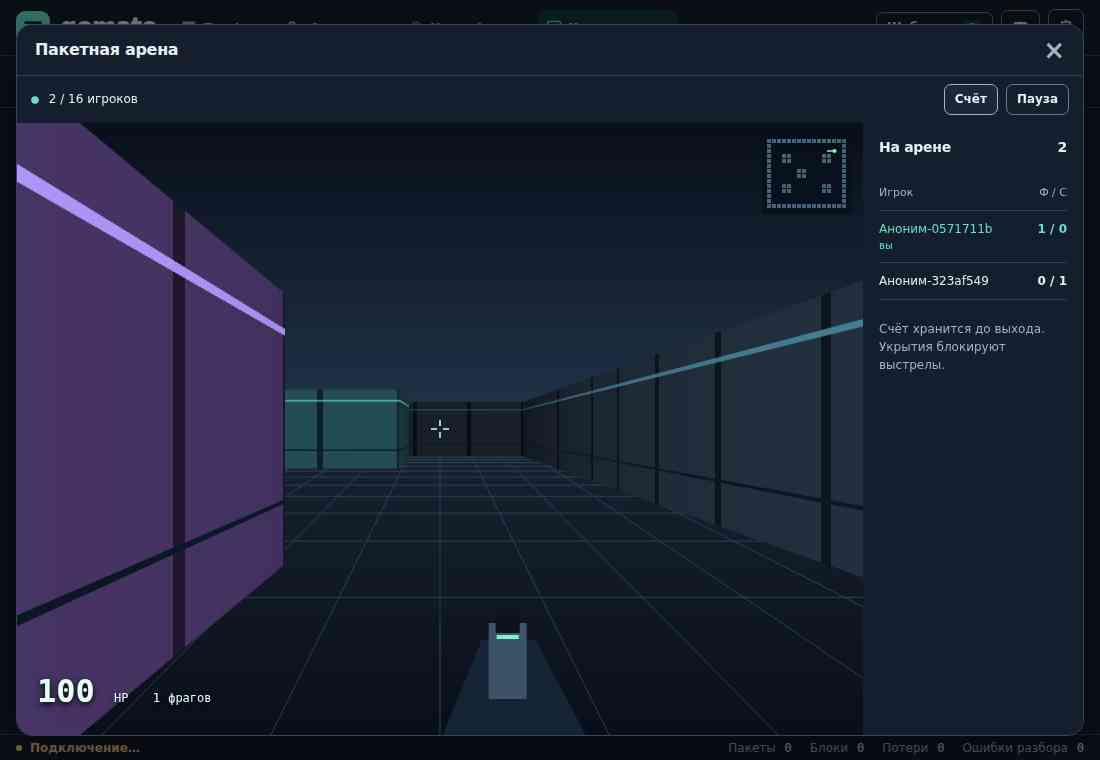
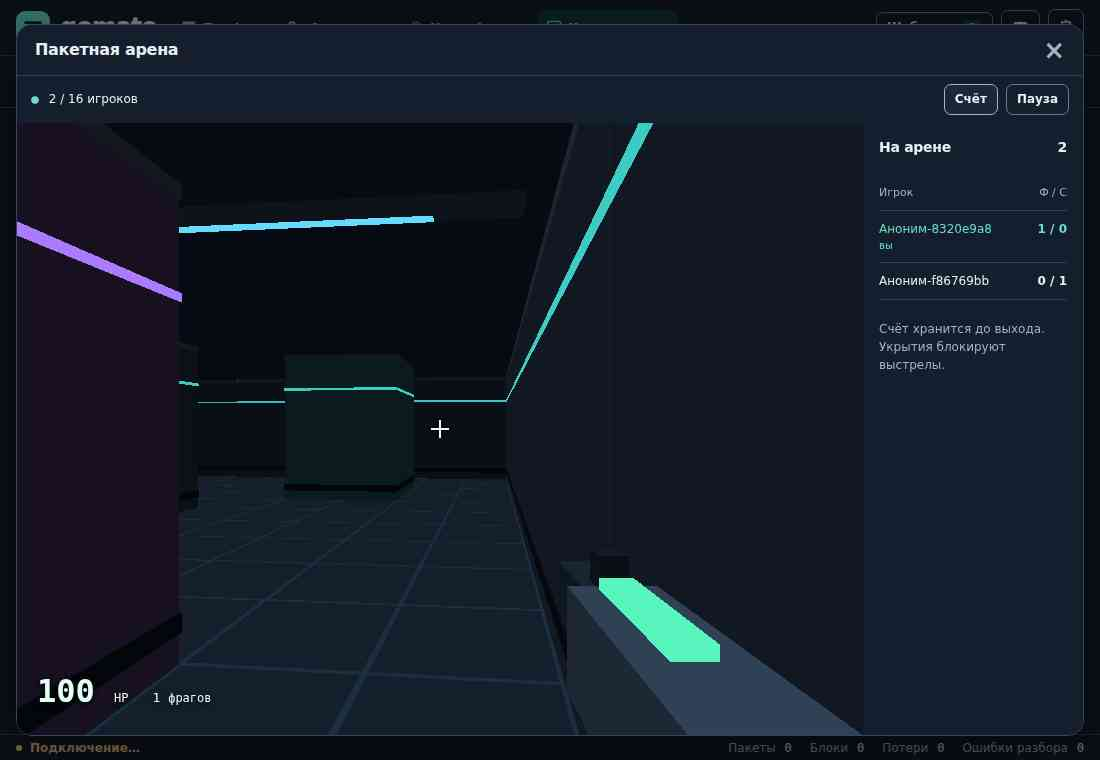
feat(arena): render WebGL 3D geometry and support vertical aiming

diff --git a/web/src/components/ArenaGame.vue b/web/src/components/ArenaGame.vue
@@ -3,11 +3,13 @@
   <div class="arena-toolbar"><span><i class="fas fa-circle" :class="connected?'arena-online':''" aria-hidden="true"/> {{ connected?players.length+' / 16 игроков':status }}</span><div><button type="button" class="btn btn-sm btn-outline-secondary" @click="showScores=!showScores" :aria-pressed="String(showScores)">Счёт</button><button v-if="connected" type="button" class="btn btn-sm btn-outline-secondary" @click="pause">Пауза</button></div></div>
   <div class="arena-layout" :class="{'arena-with-scores':showScores}">
    <div class="arena-stage">
-    <canvas ref="canvas" tabindex="0" aria-label="3D-арена. WASD — движение, стрелки — поворот, пробел — выстрел." @click="activate" @contextmenu.prevent @mousemove="mouseMove" @mousedown="mouseDown"/>
+    <canvas ref="canvas" tabindex="0" aria-label="3D-арена. WASD — движение, стрелки — поворот, пробел — выстрел." @click="activate" @contextmenu.prevent @mousemove="mouseMove" @mousedown="mouseDown" @pointerdown="lookTouchStart" @pointermove="lookTouchMove" @pointerup="lookTouchEnd" @pointercancel="lookTouchEnd" @webglcontextlost.prevent="contextLost"/>
+    <div v-if="connected&&active" class="arena-crosshair" :class="{'arena-crosshair-hit':hitUntil>clock}" aria-hidden="true"/>
+    <div v-if="hurtUntil>clock" class="arena-damage" aria-hidden="true"/>
     <div v-if="!connected||!active" class="arena-overlay">
-     <span class="arena-kicker">GOMATE / DEATHMATCH</span><h2>{{ connected?'Передышка':error?'Связь прервана':'Между раундами' }}</h2>
+     <span class="arena-kicker">GOMATE / 3D DEATHMATCH</span><h2>{{ connected?'Передышка':error?'Связь прервана':'Между раундами' }}</h2>
      <p v-if="error" role="alert">{{ error }}</p><p v-else>Одна арена для всей команды. Три попадания, три секунды на возрождение.</p>
-     <button type="button" class="btn btn-primary" :disabled="connecting" @click="connected?activate():connect()">{{ connecting?'Подключение…':connected?'Продолжить':'Войти на арену' }}</button>
+     <button type="button" class="btn btn-primary" :disabled="connecting||renderUnavailable" @click="connected?activate():connect()">{{ connecting?'Подключение…':connected?'Продолжить':'Войти на арену' }}</button>
      <div class="arena-instructions"><span><kbd>W A S D</kbd> движение</span><span>Мышь или <kbd>← →</kbd> прицел</span><span><kbd>ЛКМ</kbd> / <kbd>Space</kbd> огонь</span><span><kbd>Esc</kbd> пауза</span></div>
      <small>Если захват мыши недоступен — зажмите ПКМ для поворота. Пауза не защищает от попаданий.</small>
     </div>
@@ -27,16 +29,16 @@ import {ArenaRenderer} from '../game/arenaRenderer.mjs';
 const codes=new Set(['KeyW','KeyA','KeyS','KeyD','ArrowUp','ArrowDown','ArrowLeft','ArrowRight','Space']);
 export default {
  name:'ArenaGame',
- data:()=>({connected:false,connecting:false,active:false,status:'Командный мини-шутер',error:'',players:[],id:0,showScores:false,clock:0,hitUntil:0,touchControls:[{code:'KeyW',text:'↑',label:'Вперёд'},{code:'KeyS',text:'↓',label:'Назад'},{code:'KeyA',text:'A',label:'Шаг влево'},{code:'KeyD',text:'D',label:'Шаг вправо'},{code:'ArrowLeft',text:'↶',label:'Поворот влево'},{code:'ArrowRight',text:'↷',label:'Поворот вправо'}]}),
+ data:()=>({connected:false,connecting:false,active:false,status:'Командный мини-шутер',error:'',players:[],id:0,showScores:false,clock:0,hitUntil:0,hurtUntil:0,renderUnavailable:false,touchControls:[{code:'KeyW',text:'↑',label:'Вперёд'},{code:'KeyS',text:'↓',label:'Назад'},{code:'KeyA',text:'A',label:'Шаг влево'},{code:'KeyD',text:'D',label:'Шаг вправо'},{code:'ArrowLeft',text:'↶',label:'Поворот влево'},{code:'ArrowRight',text:'↷',label:'Поворот вправо'}]}),
  computed:{me(){return this.players.find(p=>p.id===this.id)},ranked(){return [...this.players].sort((a,b)=>b.kills-a.kills||a.deaths-b.deaths)},respawnSeconds(){return Math.max(0,Math.ceil(((this.me?.respawnAt||0)-this.serverTime-(this.clock-this.receivedAt))/1000))}},
- created(){this.keys=new Set();this.angle=0;this.map=null;this.socket=null;this.frame=0;this.lastFrame=0;this.lastSent=0;this.serverTime=0;this.receivedAt=0;this.closed=false;this.renderer=null},
- beforeDestroy(){this.closed=true;this.disconnect();cancelAnimationFrame(this.frame);this.resizeObserver?.disconnect();window.removeEventListener('keydown',this.keyDown);window.removeEventListener('keyup',this.keyUp);window.removeEventListener('mouseup',this.mouseUp);window.removeEventListener('blur',this.pause);document.removeEventListener('visibilitychange',this.visibility);document.removeEventListener('pointerlockchange',this.pointerLock);document.removeEventListener('mousemove',this.lockedMove)},
+ created(){this.keys=new Set();this.angle=0;this.pitch=0;this.touchLook=null;this.map=null;this.socket=null;this.frame=0;this.lastFrame=0;this.lastDraw=0;this.lastSent=0;this.serverTime=0;this.receivedAt=0;this.closed=false;this.renderer=null},
+ beforeDestroy(){this.closed=true;this.disconnect();cancelAnimationFrame(this.frame);this.renderer?.dispose();this.resizeObserver?.disconnect();window.removeEventListener('keydown',this.keyDown);window.removeEventListener('keyup',this.keyUp);window.removeEventListener('mouseup',this.mouseUp);window.removeEventListener('blur',this.pause);document.removeEventListener('visibilitychange',this.visibility);document.removeEventListener('pointerlockchange',this.pointerLock);document.removeEventListener('mousemove',this.lockedMove)},
  methods:{
-  setup(){if(this.renderer)return;const canvas=this.$refs.canvas;this.renderer=new ArenaRenderer(canvas);this.resizeObserver=new ResizeObserver(()=>{const r=canvas.getBoundingClientRect(),scale=Math.min(1,960/r.width);canvas.width=Math.max(1,Math.round(r.width*scale));canvas.height=Math.max(1,Math.round(r.height*scale))});this.resizeObserver.observe(canvas);window.addEventListener('keydown',this.keyDown);window.addEventListener('keyup',this.keyUp);window.addEventListener('mouseup',this.mouseUp);window.addEventListener('blur',this.pause);document.addEventListener('visibilitychange',this.visibility);document.addEventListener('pointerlockchange',this.pointerLock);document.addEventListener('mousemove',this.lockedMove);this.frame=requestAnimationFrame(this.render)},
-  connect(){if(this.connecting||this.connected)return;if(!this.renderer)this.setup();this.error='';this.connecting=true;this.players=[];this.id=0;this.map=null;const ws=new WebSocket(`${location.protocol==='https:'?'wss:':'ws:'}//${location.host}/api/v2/chat/arena`);this.socket=ws;this.connectTimer=setTimeout(()=>{if(!this.connected){this.error='Сервер не ответил. Попробуйте ещё раз.';ws.close()}},8000);
+  setup(){if(this.renderer)return;const canvas=this.$refs.canvas;try{this.renderer=new ArenaRenderer(canvas)}catch(e){this.error=e.message;this.renderUnavailable=true;return false}this.resizeObserver=new ResizeObserver(()=>{const r=canvas.getBoundingClientRect(),scale=Math.min(1,960/r.width);canvas.width=Math.max(1,Math.round(r.width*scale));canvas.height=Math.max(1,Math.round(r.height*scale))});this.resizeObserver.observe(canvas);window.addEventListener('keydown',this.keyDown);window.addEventListener('keyup',this.keyUp);window.addEventListener('mouseup',this.mouseUp);window.addEventListener('blur',this.pause);document.addEventListener('visibilitychange',this.visibility);document.addEventListener('pointerlockchange',this.pointerLock);document.addEventListener('mousemove',this.lockedMove);this.frame=requestAnimationFrame(this.render)},
+  connect(){if(this.connecting||this.connected||this.renderUnavailable)return;if(!this.renderer&&this.setup()===false)return;this.error='';this.connecting=true;this.players=[];this.id=0;this.map=null;const ws=new WebSocket(`${location.protocol==='https:'?'wss:':'ws:'}//${location.host}/api/v2/chat/arena`);this.socket=ws;this.connectTimer=setTimeout(()=>{if(!this.connected){this.error='Сервер не ответил. Попробуйте ещё раз.';ws.close()}},8000);
    ws.onmessage=e=>{if(this.closed||this.socket!==ws)return;let data;try{data=JSON.parse(e.data)}catch{return}
-    if(data.type==='welcome'){clearTimeout(this.connectTimer);this.id=data.id;this.map=data.map;this.angle=data.angle;this.connected=true;this.connecting=false;this.status='На арене';this.active=true;this.renderer.camera=null;this.$nextTick(()=>this.$refs.canvas?.focus())}
-    if(data.type==='state'){const old=this.me,me=data.players.find(p=>p.id===this.id);if(old&&me&&me.hits>old.hits)this.hitUntil=performance.now()+450;if(old&&me&&old.hp===0&&me.hp>0)this.angle=me.angle;this.players=data.players;this.serverTime=data.time;this.receivedAt=performance.now()}
+    if(data.type==='welcome'){clearTimeout(this.connectTimer);this.id=data.id;this.map=data.map;this.angle=data.angle;this.pitch=0;this.connected=true;this.connecting=false;this.status='На арене';this.active=true;this.renderer.camera=null;this.$nextTick(()=>this.$refs.canvas?.focus())}
+    if(data.type==='state'){const old=this.me,me=data.players.find(p=>p.id===this.id);if(old&&me&&me.hits>old.hits)this.hitUntil=performance.now()+450;if(old&&me&&me.hp<old.hp)this.hurtUntil=performance.now()+180;if(old&&me&&old.hp===0&&me.hp>0){this.angle=me.angle;this.pitch=0}this.players=data.players;this.serverTime=data.time;this.receivedAt=performance.now()}
    };ws.onclose=()=>{if(this.closed||this.socket!==ws)return;clearTimeout(this.connectTimer);this.connected=false;this.connecting=false;this.pause();this.error=this.error||'Соединение закрыто. Арена может быть заполнена или уже открыта в другой вкладке. Можно войти снова.'};ws.onerror=()=>{this.error='Не удалось подключиться к арене. Проверьте соединение или закройте игру в другой вкладке.'}},
   disconnect(){clearTimeout(this.connectTimer);this.pause();this.socket?.close();this.socket=null;this.connected=false;this.connecting=false},
   activate(){if(!this.connected)return;this.active=true;this.$refs.canvas.focus();try{const result=this.$refs.canvas.requestPointerLock?.();result?.catch(()=>{})}catch{}},
@@ -45,12 +47,16 @@ export default {
   pointerLock(){if(document.pointerLockElement!==this.$refs.canvas)this.pause()},
   keyDown(e){if(e.code==='Escape'){this.pause();return}if(!this.active||!codes.has(e.code)||e.ctrlKey||e.metaKey||e.altKey)return;e.preventDefault();this.keys.add(e.code)},
   keyUp(e){this.keys.delete(e.code)},
-  lockedMove(e){if(this.active&&document.pointerLockElement===this.$refs.canvas)this.angle+=e.movementX*.003},
-  mouseMove(e){if(this.active&&document.pointerLockElement!==this.$refs.canvas&&(e.buttons&2))this.angle+=e.movementX*.004},
+  look(dx,dy,speed){this.angle+=dx*speed;this.pitch=Math.max(-1.3,Math.min(1.3,this.pitch-dy*speed))},
+  lockedMove(e){if(this.active&&document.pointerLockElement===this.$refs.canvas)this.look(e.movementX,e.movementY,.003)},
+  mouseMove(e){if(this.active&&document.pointerLockElement!==this.$refs.canvas&&(e.buttons&2))this.look(e.movementX,e.movementY,.004)},
+  contextLost(){this.disconnect();this.renderUnavailable=true;this.error='3D-контекст потерян. Закройте арену и откройте её снова.'},
+  lookTouchStart(e){if(e.pointerType!=='touch'||!this.active)return;this.touchLook={id:e.pointerId,x:e.clientX,y:e.clientY};e.target.setPointerCapture(e.pointerId)},
+  lookTouchMove(e){const t=this.touchLook;if(!t||t.id!==e.pointerId)return;this.look(e.clientX-t.x,e.clientY-t.y,.005);t.x=e.clientX;t.y=e.clientY},lookTouchEnd(){this.touchLook=null},
   mouseDown(e){if(this.active&&e.button===0)this.fire=true},mouseUp(){this.fire=false},
   touchDown(e,code){e.target.setPointerCapture(e.pointerId);this.keys.add(code)},touchUp(code){this.keys.delete(code)},
-  sendInput(){if(this.socket?.readyState!==WebSocket.OPEN||!this.connected||this.socket.bufferedAmount>4096)return;const k=this.keys,on=this.active;this.angle=Math.atan2(Math.sin(this.angle),Math.cos(this.angle));this.socket.send(JSON.stringify({forward:on?(Number(k.has('KeyW')||k.has('ArrowUp'))-Number(k.has('KeyS')||k.has('ArrowDown'))):0,strafe:on?(Number(k.has('KeyD'))-Number(k.has('KeyA'))):0,angle:this.angle,fire:!!(on&&(this.fire||k.has('Space')))}))},
-  render(now){if(this.closed)return;const dt=Math.min(.05,(now-this.lastFrame)/1000||.016);this.lastFrame=now;if(now-this.clock>=100)this.clock=now;if(this.active)this.angle+=(Number(this.keys.has('ArrowRight'))-Number(this.keys.has('ArrowLeft')))*dt*2.2;if(now-this.lastSent>=50){this.sendInput();this.lastSent=now}if(this.connected&&!document.hidden)this.renderer?.draw(this.map,this.players,this.id,this.angle,dt,now);this.frame=requestAnimationFrame(this.render)}
+  sendInput(){if(this.socket?.readyState!==WebSocket.OPEN||!this.connected||this.socket.bufferedAmount>4096)return;const k=this.keys,on=this.active;this.angle=Math.atan2(Math.sin(this.angle),Math.cos(this.angle));this.socket.send(JSON.stringify({forward:on?(Number(k.has('KeyW')||k.has('ArrowUp'))-Number(k.has('KeyS')||k.has('ArrowDown'))):0,strafe:on?(Number(k.has('KeyD'))-Number(k.has('KeyA'))):0,angle:this.angle,pitch:this.pitch,fire:!!(on&&(this.fire||k.has('Space')))}))},
+  render(now){if(this.closed)return;const dt=Math.min(.05,(now-this.lastFrame)/1000||.016);this.lastFrame=now;if(now-this.clock>=100)this.clock=now;if(this.active)this.angle+=(Number(this.keys.has('ArrowRight'))-Number(this.keys.has('ArrowLeft')))*dt*2.2;if(now-this.lastSent>=50){this.sendInput();this.lastSent=now}if(this.connected&&!document.hidden&&now-this.lastDraw>=16){this.renderer?.draw(this.map,this.players,this.id,this.angle,this.pitch,Math.min(.05,(now-this.lastDraw)/1000||.016),now);this.lastDraw=now}this.frame=requestAnimationFrame(this.render)}
  }
 }
 </script>
@@ -61,6 +67,7 @@ export default {
 .arena-toolbar{display:flex;justify-content:space-between;align-items:center;gap:10px;padding:8px 14px;flex:none;font-size:12px}.arena-toolbar>div{display:flex;gap:8px}.arena-toolbar .fa-circle{font-size:8px;margin-right:6px;color:var(--gm-muted)}.arena-toolbar .arena-online{color:var(--gm-accent)}
 .arena-layout{display:flex;flex:1;min-height:0}.arena-stage{position:relative;flex:1;min-width:0;min-height:0;background:radial-gradient(ellipse at 70% 60%,#183947,#0b1220 70%);overflow:hidden}.arena-stage canvas{display:block;width:100%;height:100%;outline-offset:-3px;touch-action:none}
 .arena-overlay{position:absolute;inset:0;display:flex;align-items:center;justify-content:center;flex-direction:column;gap:18px;padding:24px;background:#0a1223dc;color:#e9f5ff;text-align:center;overflow:auto}.arena-kicker{font:11px var(--gm-mono);letter-spacing:3px;color:#7bf1d0}.arena-overlay h2{font-size:clamp(25px,4vw,44px);letter-spacing:-1px;margin:0}.arena-overlay p{max-width:430px;font-size:14px;color:#b9c9d9;margin:0}.arena-overlay>.btn{padding:11px 28px;font-size:14px}.arena-instructions{display:flex;justify-content:center;flex-wrap:wrap;gap:12px;font-size:12px;color:#cad8e5}.arena-instructions kbd{background:#26364d;padding:3px 5px}.arena-overlay small{max-width:460px;font-size:11px;color:#9caec3}
+.arena-crosshair{position:absolute;left:50%;top:50%;width:18px;height:18px;transform:translate(-50%,-50%);pointer-events:none;color:#e7fff5;filter:drop-shadow(0 1px 2px #000)}.arena-crosshair:before,.arena-crosshair:after{content:"";position:absolute;background:currentColor}.arena-crosshair:before{left:8px;top:0;width:2px;height:18px}.arena-crosshair:after{left:0;top:8px;width:18px;height:2px}.arena-crosshair-hit{color:#ffcf70;transform:translate(-50%,-50%) rotate(45deg)}.arena-damage{position:absolute;inset:0;box-shadow:inset 0 0 65px #ff375e88;pointer-events:none}@media(prefers-reduced-motion:reduce){.arena-damage{display:none}}
 .arena-hud{position:absolute;bottom:20px;left:20px;right:20px;display:flex;align-items:baseline;gap:24px;pointer-events:none;color:#e5fff7;text-shadow:0 2px 6px #000;font-family:var(--gm-mono)}.arena-hud strong{font-size:32px}.arena-hud small{font-size:12px}.arena-hud>span{font-size:13px}.arena-hud .arena-low-hp{color:#ff8da3}.arena-hit{margin-left:auto;color:#7bf1d0}.arena-respawn{position:absolute;inset:40% 0 auto;text-align:center;color:#fff;background:#09121dcc;padding:16px;font-size:22px;pointer-events:none}
 .arena-scores{width:220px;flex:none;padding:16px;background:var(--gm-panel);overflow:auto;font-size:12px}.arena-scores h3{font-size:14px;display:flex;justify-content:space-between;margin:0 0 20px}.arena-score-label,.arena-score-row{display:flex;justify-content:space-between;gap:8px;padding:9px 0;border-bottom:1px solid var(--gm-border)}.arena-score-label{color:var(--gm-muted);font-size:11px}.arena-score-row>span{min-width:0;overflow-wrap:anywhere}.arena-score-row strong{white-space:nowrap}.arena-score-row small{display:block;font-size:10px}.arena-score-self{color:var(--gm-accent)}.arena-score-note{display:block;margin-top:20px;color:var(--gm-muted)}
 .arena-touch{display:none;position:absolute;bottom:12px;left:12px;right:12px;justify-content:space-between;align-items:flex-end;pointer-events:none}.arena-touch-move{display:grid;grid-template-columns:repeat(3,44px);gap:6px}.arena-touch button{pointer-events:auto;touch-action:none;border:1px solid #7693ad;border-radius:9px;background:#14283bdb;color:#f1fbff;min-width:44px;min-height:44px}.arena-touch .arena-touch-fire{width:60px;height:60px;border-radius:50%;font-size:24px}

diff --git a/internal/arena/game.go b/internal/arena/game.go
@@ -34,11 +34,13 @@ type Input struct {
 	Forward float64 `json:"forward"`
 	Strafe  float64 `json:"strafe"`
 	Angle   float64 `json:"angle"`
+	Pitch   float64 `json:"pitch"`
 	Fire    bool    `json:"fire"`
 }
 
 func (i Input) valid() bool {
 	return !math.IsNaN(i.Angle) && !math.IsInf(i.Angle, 0) && math.Abs(i.Angle) < 1e6 &&
+		!math.IsNaN(i.Pitch) && math.Abs(i.Pitch) <= 1.3 &&
 		!math.IsNaN(i.Forward) && math.Abs(i.Forward) <= 1 && !math.IsNaN(i.Strafe) && math.Abs(i.Strafe) <= 1
 }
 
@@ -48,6 +50,7 @@ type Player struct {
 	X           float64 `json:"x"`
 	Y           float64 `json:"y"`
 	Angle       float64 `json:"angle"`
+	Pitch       float64 `json:"pitch"`
 	HP          int     `json:"hp"`
 	Kills       int     `json:"kills"`
 	Deaths      int     `json:"deaths"`
@@ -100,6 +103,7 @@ func (h *Hub) spawn(p *Player, now time.Time) {
 	}
 	s := spawns[best]
 	p.X, p.Y, p.Angle = s[0], s[1], s[2]
+	p.Pitch = 0
 	p.HP = 100
 	p.RespawnAt = 0
 	p.ShieldUntil = now.Add(time.Second).UnixMilli()
@@ -123,6 +127,7 @@ func (h *Hub) advance(now time.Time) {
 			continue
 		}
 		p.Angle = math.Remainder(p.input.Angle, 2*math.Pi)
+		p.Pitch = p.input.Pitch
 		f, s := p.input.Forward, p.input.Strafe
 		if length := math.Hypot(f, s); length > 1 {
 			f /= length
@@ -157,8 +162,16 @@ func (h *Hub) advance(now time.Time) {
 			along := dx*math.Cos(p.Angle) + dy*math.Sin(p.Angle)
 			across := math.Abs(-dx*math.Sin(p.Angle) + dy*math.Cos(p.Angle))
 			if along > 0 && across < .32 {
-				hit := along - math.Sqrt(.32*.32-across*across)
-				if hit >= 0 && hit < closest {
+				root := math.Sqrt(.32*.32 - across*across)
+				hit, end := math.Max(0, along-root), along+root
+				// Intersect the horizontal circle with the player's vertical cylinder.
+				// Eye height is 1.25m, target height 1.6m; looking over a head must miss.
+				if slope := math.Tan(p.Pitch); math.Abs(slope) > 1e-8 {
+					lo, hi := -1.25/slope, (1.6-1.25)/slope
+					hit = math.Max(hit, math.Min(lo, hi))
+					end = math.Min(end, math.Max(lo, hi))
+				}
+				if hit <= end && hit < closest {
 					closest = hit
 					victim = q
 				}

diff --git a/internal/arena/game_test.go b/internal/arena/game_test.go
@@ -105,6 +105,26 @@ func TestNearestPlayerAndDeadPlayer(t *testing.T) {
 		t.Fatal("dead player fired")
 	}
 }
+func TestVerticalAim(t *testing.T) {
+	now := time.Now()
+	for _, pitch := range []float64{.7, -1, 0} {
+		h, shooter, target := fixture(now)
+		shooter.input = Input{Fire: true, Pitch: pitch}
+		h.advance(now)
+		want := 100
+		if pitch == 0 {
+			want = 66
+		}
+		if target.HP != want {
+			t.Fatalf("pitch=%v hp=%d want=%d", pitch, target.HP, want)
+		}
+	}
+	for _, pitch := range []float64{1.31, -1.31, math.NaN(), math.Inf(1)} {
+		if (Input{Pitch: pitch}).valid() {
+			t.Fatalf("invalid pitch accepted: %v", pitch)
+		}
+	}
+}
 func TestWebSocketRoomBoundedAndStops(t *testing.T) {
 	var h Hub
 	s := httptest.NewServer(http.HandlerFunc(func(w http.ResponseWriter, r *http.Request) { h.Serve(w, r, r.URL.Query().Get("name")) }))

diff --git a/reports/ARENA.md b/reports/ARENA.md
@@ -1,26 +1,32 @@
 # Проверка мини-шутера
 
-Дата: 2026-11-14. Вход: **Чат → Арена → Войти на арену**.
+Дата: 2026-11-15. Вход: **Чат → Арена → Войти на арену**.
 
 ## Результат
 
-Добавлена общая ретро-3D арена до 16 игроков с именами из чата, укрытиями, серверными попаданиями, счётом и автоматическим возрождением. Игра загружается по кнопке, не обращается к БД или очередям захвата. Закрытие сохраняет черновик чата. Описание управления и ограничений: [ARENA.md](../docs/ARENA.md).
+Добавлена общая полноценная 3D-арена на WebGL до 16 игроков с именами из чата, укрытиями, серверными попаданиями, счётом и автоматическим возрождением. Игра загружается по кнопке, не обращается к БД или очередям захвата. Закрытие сохраняет черновик чата. Описание управления и ограничений: [ARENA.md](../docs/ARENA.md).
 
 ## Выполненные проверки
 
-- `.tools/go/bin/go test -race ./internal/arena ./internal/api` — PASS. Проверены движение, стены, ближайшая цель, частота выстрелов, защита и возрождение, остановка устаревшего ввода, 16 WebSocket-подключений, лимит комнаты, повторный вход, остановка пустой комнаты, Origin, неверный ввод, флуд, Basic Auth и идентичность имени чата.
+- `.tools/go/bin/go test -race ./internal/arena ./internal/api` — PASS. Проверены движение, стены, ближайшая цель, частота выстрелов, защита и возрождение, остановка устаревшего ввода, 16 WebSocket-подключений, лимит комнаты, повторный вход, остановка пустой комнаты, Origin, неверный ввод, флуд, Basic Auth и идентичность имени чата. Отдельно проверены промахи выше головы и в пол, а также допустимые границы вертикального прицела.
 - `npm --prefix web run build` — PASS. Арена выделена в отдельный динамический chunk. Существующее предупреждение о размере основного bundle остаётся.
-- `node tests/browser/arena.cjs` — PASS. Два Chromium-клиента подключены к настоящему Go WebSocket-серверу. Движение видно сопернику; три попадания дают фраг, игрок возрождается; счёт синхронизируется. Проверены пауза, выход, сохранение черновика, мобильное окно игры и размещение композера/кнопки в пяти размерах окна и двух темах. Подменены только API вне игры. Ошибок JavaScript нет: [JSON](arena-browser.json), [небольшой JPEG](arena-desktop.jpg).
-- `node tests/browser/arena-live.cjs` — PASS на `192.168.56.103:65000`: два браузера вошли с именами чата, сервер принял движение, после выхода захват работает и readiness отвечает успешно. Сообщения в чат тест не публиковал: [JSON](arena-live.json).
+- `node tests/browser/arena.cjs` — PASS. Проверены настоящий WebGL-контекст и включённая проверка глубины, репликация вертикального угла. Два Chromium-клиента подключены к настоящему Go WebSocket-серверу. Движение видно сопернику; три попадания дают фраг, игрок возрождается; счёт синхронизируется. Проверены пауза, выход, сохранение черновика, мобильное окно игры и размещение композера/кнопки в пяти размерах окна и двух темах. Подменены только API вне игры. Ошибок JavaScript нет: [JSON](arena-browser.json), [небольшой JPEG](arena-desktop.jpg).
+- `node tests/browser/arena-live.cjs` — PASS на `192.168.56.103:65000`: два браузера вошли с именами чата, проверены WebGL и глубина, сервер принял движение и вертикальный прицел, после выхода захват работает и readiness отвечает успешно. Сообщения в чат тест не публиковал: [JSON](arena-live.json).
 
 Дополнительно запускался общий `ui-operations-redesign.cjs`: остановился на устаревшем селекторе `.gm-page-title` страницы «Аномалии», где сейчас обычный `<h1>`. Это не успешная общая регрессия интерфейса. Проверки изменённого чата выполнены отдельно в `arena.cjs`; код аномалий в рамках арены не менялся.
 
 ## Производительность
 
-`BenchmarkFullRoomTick`, Intel Core i7-12700F, 16 симулируемых игроков с движением и огнём: **22 068 нс/op, 3506 B/op, 6 allocs/op**. Бенчмарк включает шаг симуляции и сериализацию снимка через шаг; не включает сетевую передачу, рендер браузера или нагрузку захвата трафика. Это не результат нагрузочного теста всего анализатора.
+`BenchmarkFullRoomTick`, Intel Core i7-12700F, 16 симулируемых игроков с движением и огнём: **21 356 нс/op, 3675 B/op, 6 allocs/op**. Бенчмарк включает шаг симуляции и сериализацию снимка через шаг; не включает сетевую передачу, рендер браузера или нагрузку захвата трафика. Это не результат нагрузочного теста всего анализатора.
 
 Сервер ограничен 20 шагами/с, 10 снимками/с и 16 игроками; у клиента очередь только для последнего снимка. В пустой комнате таймер останавливается. Полный длительный тест захвата одновременно с 16 активными браузерами в этой проверке не проводился.
 
 ## Развёртывание
 
[2 lines of base64/hex data omitted]
+
+Предыдущая проверенная сборка арены была заменена параллельным развёртыванием вложений. Поэтому дополнительно собран совместный образ; затем его 3D-рендер заменён на WebGL по уточнению пользователя. Изменения вложений сохранены в финальной сборке.
+
+Образ загружен на Kali и назначен `gomate-app:kali-test`; `docker compose up -d --no-deps --wait app` завершился успешно. Предыдущий образ сохранён как `gomate-app:before-arena3d-20261115`. Live-проверка арены выполнена повторно на финальном образе. В тесте движение ожидается до подтверждения сервером (до 5 секунд), а не фиксированные 200 мс: это функциональная проверка, не измерение сетевой задержки или FPS.
+
+Дополнительно `.tools/go/bin/go test ./internal/attachments ./internal/storage` — PASS; браузерная live-проверка вложений — PASS на финальном образе: файл скачан и побайтово совпал с содержимым API, проверены текст/HEX и шесть сочетаний темы/ширины. Ошибок JavaScript нет.

diff --git a/docs/ARENA.md b/docs/ARENA.md
@@ -2,22 +2,22 @@
 
 В чате справа в шапке нажмите **Арена**, затем **Войти на арену**. Все участники одного экземпляра gomate попадают на общую карту. Имена совпадают с анонимными именами чата; дополнительных аккаунтов нет. Одна вкладка с игрой на браузер, до 16 игроков одновременно.
 
-Это мини-шутер от первого лица с ретро-3D графикой на raycasting: карта с укрытиями, 100 HP, три попадания до фрага, автоматическое возрождение через 3 секунды. После возрождения действует защита на 1 секунду, которая снимается собственным выстрелом. Кнопка **Счёт** показывает фраги и смерти. Счёт хранится до выхода, вся арена — только в памяти процесса.
+Это мини-шутер от первого лица с полноценной 3D-сценой на WebGL: объёмные модели игроков и оружия, перспективная камера, освещение и проверка глубины. На карте есть укрытия; у игрока 100 HP, три попадания до фрага, автоматическое возрождение через 3 секунды. После возрождения действует защита на 1 секунду, которая снимается собственным выстрелом. Кнопка **Счёт** показывает фраги и смерти. Счёт хранится до выхода, вся арена — только в памяти процесса.
 
 - **WASD** или ↑/↓ — движение; **←/→** — поворот.
-- Мышь — обзор после клика по сцене. Если браузер не разрешает захват мыши, зажмите **ПКМ** для поворота.
+- Мышь — горизонтальный и вертикальный обзор после клика по сцене. Если браузер не разрешает захват мыши, зажмите **ПКМ** для поворота.
 - **ЛКМ** или **Space** — стрельба; можно удерживать.
 - **Esc** — отпустить мышь и открыть паузу. Пауза не защищает от попаданий.
-- На сенсорном экране доступны кнопки движения, поворота и огня.
+- На сенсорном экране доступны кнопки движения, поворота и огня; проводите пальцем по сцене для обзора.
 - Закрытие окна возвращает в чат, сохраняя черновик. Скрытие вкладки отключает игрока; для возврата нажмите **Войти на арену**.
 
 ## Изоляция от анализатора
 
-Арена не использует БД, очереди захвата, блокировки каталога или SSE/WebSocket-уведомления трафика. Код игры загружается отдельным frontend chunk только при открытии окна. Не нужны внешние ресурсы, CDN, WebGL или новые npm-зависимости.
+Арена не использует БД, очереди захвата, блокировки каталога или SSE/WebSocket-уведомления трафика. Код игры загружается отдельным frontend chunk только при открытии окна. Внешние ресурсы, CDN и новые npm-зависимости не нужны. Требуется поддержка WebGL в браузере; если она недоступна, окно покажет понятную ошибку.
 
-Серверная симуляция идёт 20 раз в секунду, состояния рассылаются 10 раз в секунду. Клиент отправляет ввод с частотой до 20 раз в секунду. Сервер задаёт скорость, столкновения, частоту выстрелов, урон, возрождение и счёт; координаты и результаты попаданий от клиента не принимает.
+Серверная симуляция идёт 20 раз в секунду, состояния рассылаются 10 раз в секунду. Клиент отправляет ввод с частотой до 20 раз в секунду. Сервер задаёт скорость, столкновения, частоту выстрелов, урон, возрождение и счёт; координаты и результаты попаданий от клиента не принимает. Учитывается вертикальный угол прицела: выстрел выше головы или в пол не наносит урон.
 
-Ограничения: 16 игроков, 256 байт на входное сообщение, до 60 сообщений за секунду на соединение, один ожидающий снимок на клиента, тайм-аут записи 1 секунда и чтения 15 секунд. Через 250 мс без свежего ввода движение и огонь прекращаются. Когда все вышли, таймер симуляции останавливается. Рендер ограничен шириной 960 пикселей и не использует масштабирование по devicePixelRatio.
+Ограничения: 16 игроков, 256 байт на входное сообщение, до 60 сообщений за секунду на соединение, один ожидающий снимок на клиента, тайм-аут записи 1 секунда и чтения 15 секунд. Через 250 мс без свежего ввода движение и огонь прекращаются. Когда все вышли, таймер симуляции останавливается. Рендер ограничен частотой до 60 кадров/с и шириной 960 пикселей и не использует масштабирование по devicePixelRatio.
 
 Endpoint `GET /api/v2/chat/arena` использует WebSocket, существующий Basic Auth, cookie чата и проверку Origin. Отдельные порты не нужны; обратный прокси должен пропускать WebSocket Upgrade, как для `/api/v2/events`.
 
